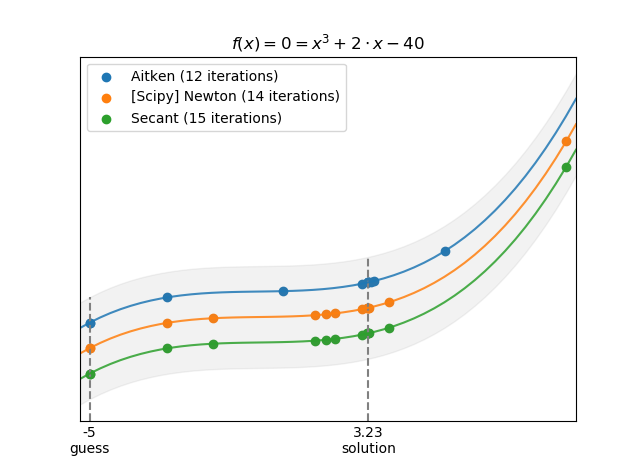
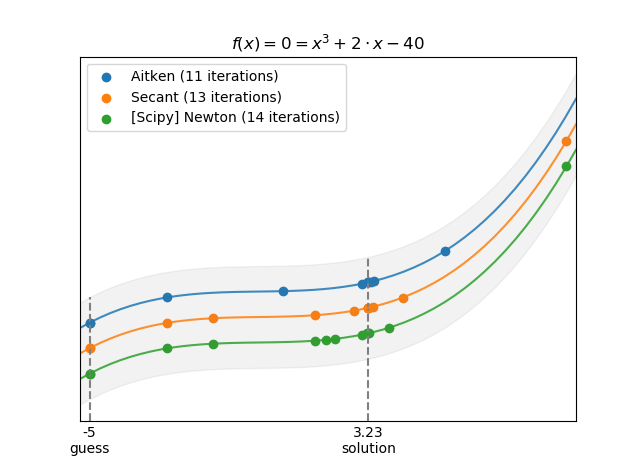
make solvers more robust

Changed region(s): [[0.1875, 0.148, 0.5312, 0.2664], [0.5, 0.6216, 0.6562, 0.6808]]

diff --git a/flexsolve/bounded_solvers.py b/flexsolve/bounded_solvers.py
@@ -38,8 +38,9 @@ def find_bracket(f, x0, x1, y0=-np.inf, y1=np.inf, args=(), maxiter=50):
 @njit_alternative
 def false_position(f, x0, x1, y0=None, y1=None, x=None,
                    xtol=0., ytol=5e-8, args=(), maxiter=50,
-                   checkroot=True, checkbounds=True):
+                   checkroot=False, checkiter=True, checkbounds=True):
     """False position solver."""
+    if checkroot: utils.check_tols(xtol, ytol)
     if x is None: x = 1e32
     if y0 is None: y0 = f(x0, *args)
     if y1 is None: y1 = f(x1, *args)
@@ -53,8 +54,7 @@ def false_position(f, x0, x1, y0=None, y1=None, x=None,
     else:
         x_best = x1
         err_best = err1
-    if checkbounds and y0 * y1 > 0.:
-        raise ValueError('f(x0) and f(x1) must have opposite signs')
+    if checkbounds: utils.check_bounds(y0, y1)
     dx = x1 - x0
     df = - y0
     false_position_iter = utils.false_position_iter
@@ -62,28 +62,34 @@ def false_position(f, x0, x1, y0=None, y1=None, x=None,
         x = false_position_iter(x0, x1, dx, y0, y1, df, x0)
     for iter in range(maxiter):
         y = f(x, *args)
-        if y > ytol:
+        if y > 0:
             x1 = x
             err = y1 = y
-        elif y < -ytol:
+        elif y < 0.:
             x0 = x
             y0 = y
             err = df = -y0
-        else: return x
+        else:
+            return x
         if err < err_best:
             err_best = err
             x_best = x
         dx = x1 - x0
-        if abs_(dx) < xtol: break
+        xtol_satisfied = abs_(dx) < xtol
+        ytol_satisfied = err < ytol
+        if ytol_satisfied or xtol_satisfied: 
+            if checkroot and ytol_satisfied and xtol_satisfied: return x
+            else: checkiter = False; break
         x = false_position_iter(x0, x1, dx, y0, y1, df, x)
     if x_best != x: f(x, *args)
-    utils.raise_root_error(checkroot and err_best < ytol)
+    if checkiter: utils.raise_iter_error()
     return x_best
 
 @njit_alternative
 def bisection(f, x0, x1, y0=None, y1=None, x=None, xtol=0., ytol=5e-8, args=(),
-              maxiter=50, checkroot=True, checkbounds=True):
+              maxiter=50, checkroot=False, checkiter=True, checkbounds=True):
     """Bisection solver."""
+    if checkroot: utils.check_tols(xtol, ytol)
     if y0 is None: y0 = f(x0, *args)
     if y1 is None: y1 = f(x1, *args)
     if y1 < 0.:  x1, y1, x0, y0 = x0, y0, x1, y1
@@ -97,35 +103,39 @@ def bisection(f, x0, x1, y0=None, y1=None, x=None, xtol=0., ytol=5e-8, args=(),
     else:
         x_best = x1
         err_best = err1
-    if checkbounds and y0 * y1 > 0.:
-        raise ValueError('f(x0) and f(x1) must have opposite signs')
+    if checkbounds: utils.check_bounds(y0, y1)
     bisect = utils.bisect
     if x is None: x = bisect(x0, x1)
-    nytol = -ytol
     for iter in range(maxiter):
         y = f(x, *args)
-        if y > ytol:
+        if y > 0.:
             x1 = x
             err = y
-        elif y < nytol:
+        elif y < 0.:
             x0 = x
             err = -y
-        else: return x
+        else:
+            return x
         if err < err_best:
             err_best = err
             x_best = x
         dx = x1 - x0
-        if abs_(dx) < xtol: break
+        xtol_satisfied = abs_(dx) < xtol
+        ytol_satisfied = err < ytol
+        if ytol_satisfied or xtol_satisfied: 
+            if checkroot and ytol_satisfied and xtol_satisfied: return x
+            else: checkiter = False; break
         x = bisect(x0, x1)
     if x_best != x: f(x, *args)
-    utils.raise_root_error(checkroot and err_best < ytol)
+    if checkiter: utils.raise_iter_error()
     return x_best
 
 @njit_alternative
 def IQ_interpolation(f, x0, x1, y0=None, y1=None, x=None,
                      xtol=0., ytol=5e-8, args=(), maxiter=50,
-                     checkroot=True, checkbounds=True):
+                     checkroot=False, checkiter=True, checkbounds=True):
     """Inverse quadratic interpolation solver."""
+    if checkroot: utils.check_tols(xtol, ytol)
     abs_ = abs
     if y0 is None: y0 = f(x0, *args)
     if y1 is None: y1 = f(x1, *args)
@@ -143,31 +153,34 @@ def IQ_interpolation(f, x0, x1, y0=None, y1=None, x=None,
     else:
         x_best = x1
         err_best = err1
-    if checkbounds and y0 * y1 > 0.:
-        raise ValueError('f(x0) and f(x1) must have opposite signs')
-    nytol = -ytol
+    if checkbounds: utils.check_bounds(y0, y1)
     for iter in range(maxiter):
         y = f(x, *args)
-        if y > ytol:
+        if y > 0.:
             y2 = y1
             x2 = x1
             x1 = x
             err = y1 = y
-        elif y < nytol:
+        elif y < 0.:
             y2 = y0
             x2 = x0
             x0 = x
             y0 = y
             err = df0 = -y
-        else: return x
+        else:
+            return x
         if err < err_best:
             err_best = err
             x_best = x
         dx = x1 - x0
-        if abs_(dx) < xtol: break
+        xtol_satisfied = abs_(dx) < xtol
+        ytol_satisfied = err < ytol
+        if ytol_satisfied or xtol_satisfied: 
+            if checkroot and ytol_satisfied and xtol_satisfied: return x
+            else: checkiter = False; break
         x = utils.IQ_iter(y0, y1, y2, x0, x1, x2, dx, df0, x)
     if x_best != x: f(x, *args)
-    utils.raise_root_error(checkroot and err_best < ytol)
+    if checkiter: utils.raise_iter_error()
     return x_best
 
     

diff --git a/flexsolve/open_solvers.py b/flexsolve/open_solvers.py
@@ -5,54 +5,107 @@ Created on Tue Nov 19 22:50:26 2019
 @author: yoelr
 """
 from flexsolve.jit_speed import njit_alternative
+from flexsolve.bounded_solvers import IQ_interpolation
 from flexsolve import utils
 
 __all__ = ('secant', 'aitken_secant')
 
 @njit_alternative(cache=True)
 def secant(f, x0, x1=None, xtol=0., ytol=5e-8, args=(), maxiter=50,
-           checkroot=True):
+           checkroot=False, checkiter=True):
     """Secant solver."""
+    if checkroot: utils.check_tols(xtol, ytol)
     if x1 is None: x1 = x0 + 1e-5
     y0 = f(x0, *args)
     abs_ = abs
     if abs_(y0) < ytol: return x0
     dx = x1-x0 
+    xi0 = x0
     for iter in range(maxiter): 
         y1 = f(x1, *args)
-        if abs_(y1) < ytol: return x1
-        if y1 == y0 or abs_(dx) < xtol: break 
+        xtol_satisfied = abs_(dx) < xtol
+        ytol_satisfied = abs_(y1) < ytol
+        if ytol_satisfied or xtol_satisfied: 
+            if checkroot and ytol_satisfied and xtol_satisfied: return x1
+            else: return x1
+        if y1*y0 < 0.: 
+            return IQ_interpolation(f, xi0, x1, y0, y1, None,
+                                    xtol, ytol, args, maxiter-iter,
+                                    checkroot, checkiter, False)
+        if y1 == y0:
+            if checkroot or checkiter: utils.raise_tol_error()
+            else: return x1
+        xi0 = x1
         x1 = x0 - y1*dx/(y1-y0)
         dx = x1-x0 
         x0 = x1
         y0 = y1
-    utils.raise_root_error(checkroot)
+    if checkiter: utils.raise_iter_error()
     return x1
 
 @njit_alternative(cache=True)
 def aitken_secant(f, x0, x1=None, xtol=0., ytol=5e-8, args=(), maxiter=50,
-                  checkroot=True):
+                  checkroot=False, checkiter=True):
     """Secant solver with Aitken acceleration."""
+    if checkroot: utils.check_tols(xtol, ytol)
     if x1 is None: x1 = x0 + 1e-5
     abs_ = abs
     y0 = f(x0, *args)
     if abs_(y0) < ytol: return x0
     dx = x1-x0
     aitken_iter = utils.scalar_aitken_iter
+    oscillating = False
     for iter in range(maxiter):
         y1 = f(x1, *args)
-        if abs_(y1) < ytol: return x1
-        if y1 == y0 or abs_(dx) < xtol: break 
+        xtol_satisfied = abs_(dx) < xtol
+        ytol_satisfied = abs_(y1) < ytol
+        if ytol_satisfied or xtol_satisfied: 
+            if checkroot and ytol_satisfied and xtol_satisfied: return x1
+            else: return x1
+        inbounds = y1*y0 < 0.
+        if y1 == y0:
+            if inbounds:
+                return IQ_interpolation(f, x0, x1, y0, y1, None,
+                                        xtol, ytol, args, maxiter-iter,
+                                        checkroot, False)
+            if checkroot or checkiter: utils.raise_tol_error()
+            else: return x1
+        if inbounds:
+            if oscillating:
+                return IQ_interpolation(f, x0, x1, y0, y1, None,
+                                        xtol, ytol, args, maxiter-iter,
+                                        checkroot, False)
+            else:
+                oscillating = True
+            
         x0 = x1 - y1*dx/(y1-y0) # x0 = g
         dx = x0-x1
         y0 = y1
         y1 = f(x0, *args)
-        if abs_(y1) < ytol: return x0
-        if y1 == y0 or abs_(dx) < xtol: x1 = x0; break 
+        xtol_satisfied = abs_(dx) < xtol
+        ytol_satisfied = abs_(y1) < ytol
+        if ytol_satisfied or xtol_satisfied: 
+            if checkroot and ytol_satisfied and xtol_satisfied: return x0
+            else: return x0
+        inbounds = y1*y0 < 0.
+        if y1 == y0:
+            if inbounds:
+                return IQ_interpolation(f, x1, x0, y0, y1, None,
+                                        xtol, ytol, args, maxiter-iter,
+                                        checkroot, False)
+            if checkroot or checkiter: utils.raise_tol_error()
+            else: return x1
+        if inbounds:
+            if oscillating:
+                return IQ_interpolation(f, x1, x0, y0, y1, None,
+                                        xtol, ytol, args, maxiter-iter,
+                                        checkroot, False)
+            else:
+                oscillating = True
         x2 = x0 - y1*dx/(y1-y0) # x2 = gg
         dx = x1 - x0 # x - g
         x1 = aitken_iter(x1, x2, dx, x2 - x0)
         dx = x1 - x0
         y0 = y1
-    utils.raise_root_error(checkroot)
+    if checkiter: utils.raise_iter_error()
     return x1

diff --git a/flexsolve/iterative_solvers.py b/flexsolve/iterative_solvers.py
@@ -20,7 +20,7 @@ __all__ = ('fixed_point',
 ) 
 
 def fixed_point_lstsq(f, x, xtol=5e-8, args=(), maxiter=50, lstsq=True,
-                      checkroot=True):
+                      checkiter=True):
     """The least-squares solution of a matrix of prior iterations is partially
     used to iteratively esmitate the root."""
     lstsq = as_least_squares_iter(lstsq)
@@ -36,18 +36,18 @@ def fixed_point_lstsq(f, x, xtol=5e-8, args=(), maxiter=50, lstsq=True,
                 x1 = f(x0)
         if (np.abs(x1 - x0) < xtol).all(): return x1
         x0 = lstsq(x0, x1)
-    utils.raise_root_error(checkroot)
+    if checkiter: utils.raise_iter_error()
     return x1
 
 @njit_alternative(cache=True)
-def fixed_point(f, x, xtol=5e-8, args=(), maxiter=50, checkroot=True):
+def fixed_point(f, x, xtol=5e-8, args=(), maxiter=50, checkiter=True):
     """Iterative fixed-point solver."""
     x0 = x1 = x
     for iter in range(maxiter):
         x1 = f(x0, *args)
         if (np.abs(x1 - x0) < xtol).all(): return x1
         x0 = x1
-    utils.raise_root_error(checkroot)
+    if checkiter: utils.raise_iter_error()
     return x1
 
 @njit_alternative(cache=True)
@@ -60,7 +60,7 @@ def conditional_fixed_point(f, x):
         x0 = x1
 
 @njit_alternative(cache=True)
-def wegstein(f, x, xtol=5e-8, args=(), maxiter=50, checkroot=True):
+def wegstein(f, x, xtol=5e-8, args=(), maxiter=50, checkiter=True):
     """Iterative Wegstein solver."""
     x0 = x
     x1 = g0 = f(x0, *args)
@@ -75,7 +75,7 @@ def wegstein(f, x, xtol=5e-8, args=(), maxiter=50, checkroot=True):
         x0 = x1
         x1 = wegstein_iter(x1, dx, g1, g0)
         g0 = g1
-    utils.raise_root_error(checkroot)
+    if checkiter: utils.raise_iter_error()
     return x1
 
 @njit_alternative(cache=True)
@@ -97,7 +97,7 @@ def conditional_wegstein(f, x):
         g0 = g1
 
 @njit_alternative(cache=True)
-def aitken(f, x, xtol=5e-8, args=(), maxiter=50, checkroot=True):
+def aitken(f, x, xtol=5e-8, args=(), maxiter=50, checkiter=True):
     """Iterative Aitken solver."""
     gg = x
     aitken_iter = utils.aitken_iter
@@ -112,7 +112,7 @@ def aitken(f, x, xtol=5e-8, args=(), maxiter=50, checkroot=True):
         dgg_g = gg - g
         if utils.fixedpoint_converged(dgg_g, xtol): return gg
         x = aitken_iter(x, gg, dxg, dgg_g)
-    utils.raise_root_error(checkroot)
+    if checkiter: utils.raise_iter_error()
     return x
 
 @njit_alternative(cache=True)

diff --git a/flexsolve/utils.py b/flexsolve/utils.py
@@ -158,7 +158,19 @@ def IQ_iter(y0, y1, y2, x0, x1, x2, dx, df0, xlast):
     return x
 
 @njitable(cache=True)
-def raise_root_error(not_satisfied):
-    if not_satisfied:
-        raise RuntimeError('root could not be solved within error tolerance')
+def raise_iter_error():
+    raise RuntimeError('maximum number of iterations exceeded; root could not be solved')
         
+@njitable(cache=True)
+def raise_tol_error():
+    raise RuntimeError('minimum tolerance reached; root could not be solved')
+
+@njitable(cache=True)
+def check_tols(xtol, ytol):        
+    if xtol !=0. and ytol != 0.:
+        raise ValueError("xtol and ytol must be postive to check root")
+
+@njitable(cache=True)
+def check_bounds(y0, y1):        
+    if y0 * y1 > 0.:
+        raise ValueError('f(x0) and f(x1) must have opposite signs')

diff --git a/setup.py b/setup.py
@@ -10,7 +10,7 @@ setup(
     name='flexsolve',
     packages=['flexsolve'],
     license='MIT',
-    version='0.3.20',
+    version='0.3.21',
     description='Flexible function solvers',
     long_description=open('README.rst').read(),
     author='Yoel Cortes-Pena',

diff --git a/README.rst b/README.rst
@@ -70,7 +70,7 @@ Parameters for each solver are pretty consitent and straight forward:
   
   * Open solvers: Initial and second guess. Second guess, 'x1', is optional.
   
-* **xtol=None**: Solver stops when the root lies within `xtol`.
+* **xtol=0.**: Solver stops when the root lies within `xtol`.
 
 * **ytol=5e-8**: Solver stops when the f(x) lies within `ytol` of the root. Iterative solvers (which solve functions of the form f(x) = x) do not accept a `ytol` argument as xtol and ytol are actually mathematically equivalent.
 
@@ -78,7 +78,9 @@ Parameters for each solver are pretty consitent and straight forward:
 
 * **maxiter=50**: Maximum number of iterations.
 
-* **checkroot=True**: Whether to raise a RuntimeError when root tolerance, `ytol`, is not satisfied.
+* **checkiter=True**: Whether to raise a Runtimer error when tolerance could not be satisfied before the maximum number of iterations.
+
+* **checkroot=False**: Whether satisfying both tolerances, `xtol` and `ytol`, are required for termination.
 
 * **checkbounds=True**: Whether to raise a ValueError when in a bounded solver when the root is not certain to lie within bounds (i.e. f(x0) * f(x1) > 0.).
 
